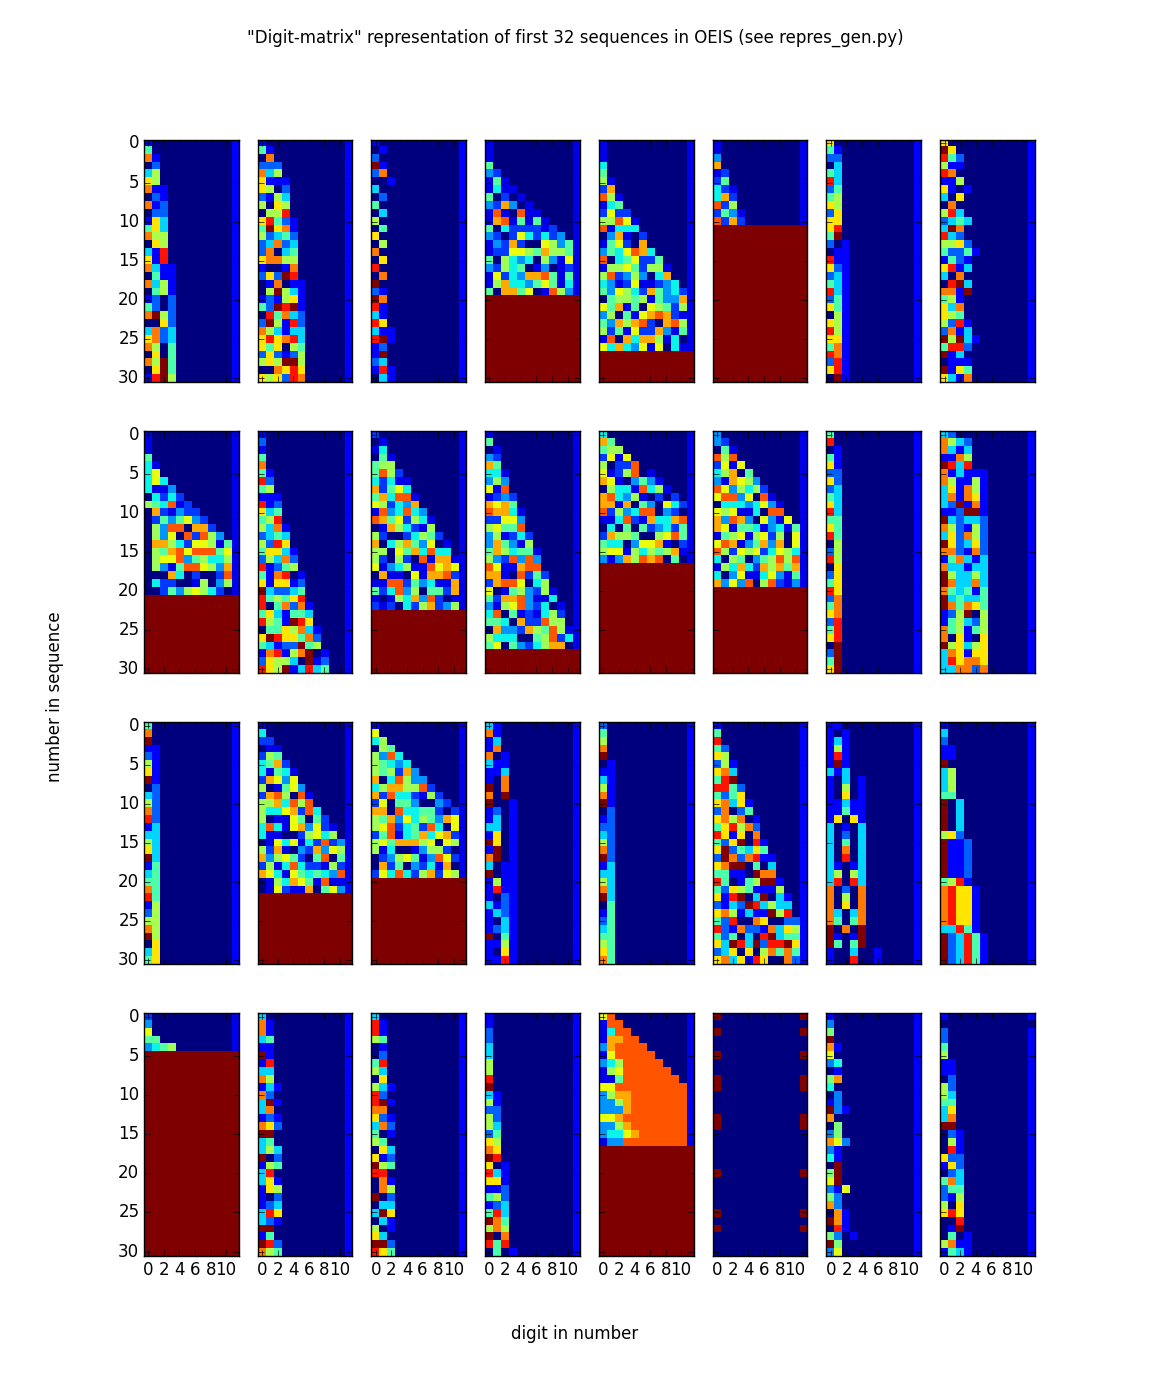
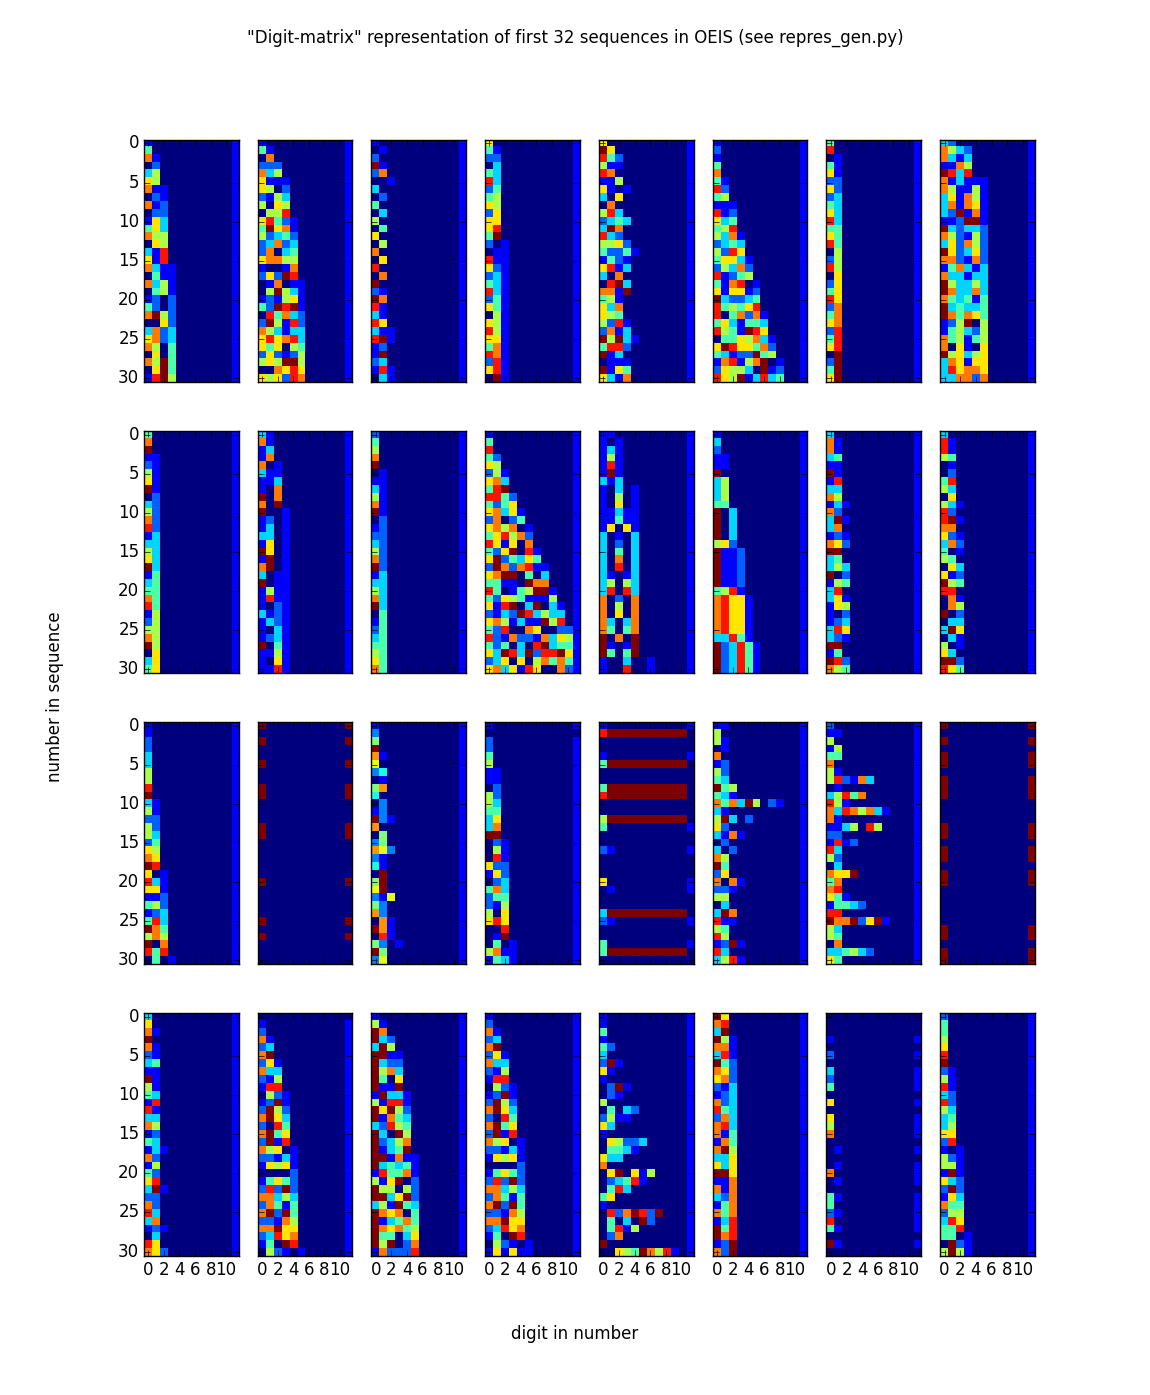
updated prediction representation figure to show only the full sequences

diff --git a/prediction/repres_figs.py b/prediction/repres_figs.py
@@ -1,6 +1,7 @@
 import os
 import sys
 import numpy as np
+import prediction.oeis_filter as oif
 import prediction.oeis_io as oio
 import matplotlib.pyplot as plt
 
@@ -22,7 +23,7 @@ if __name__ == "__main__":
     digit_mats_fn = os.path.join(oeis_dir, 'data', 'digit_mats')
 
     digit_mats = oio.read_seq_digit_mats(digit_mats_fn)
-    digit_mats[digit_mats == 255] = 11
+    digit_mats = oif.filter_short_seqs(digit_mats)
 
     sp_rows = 4
     sp_cols = 8
